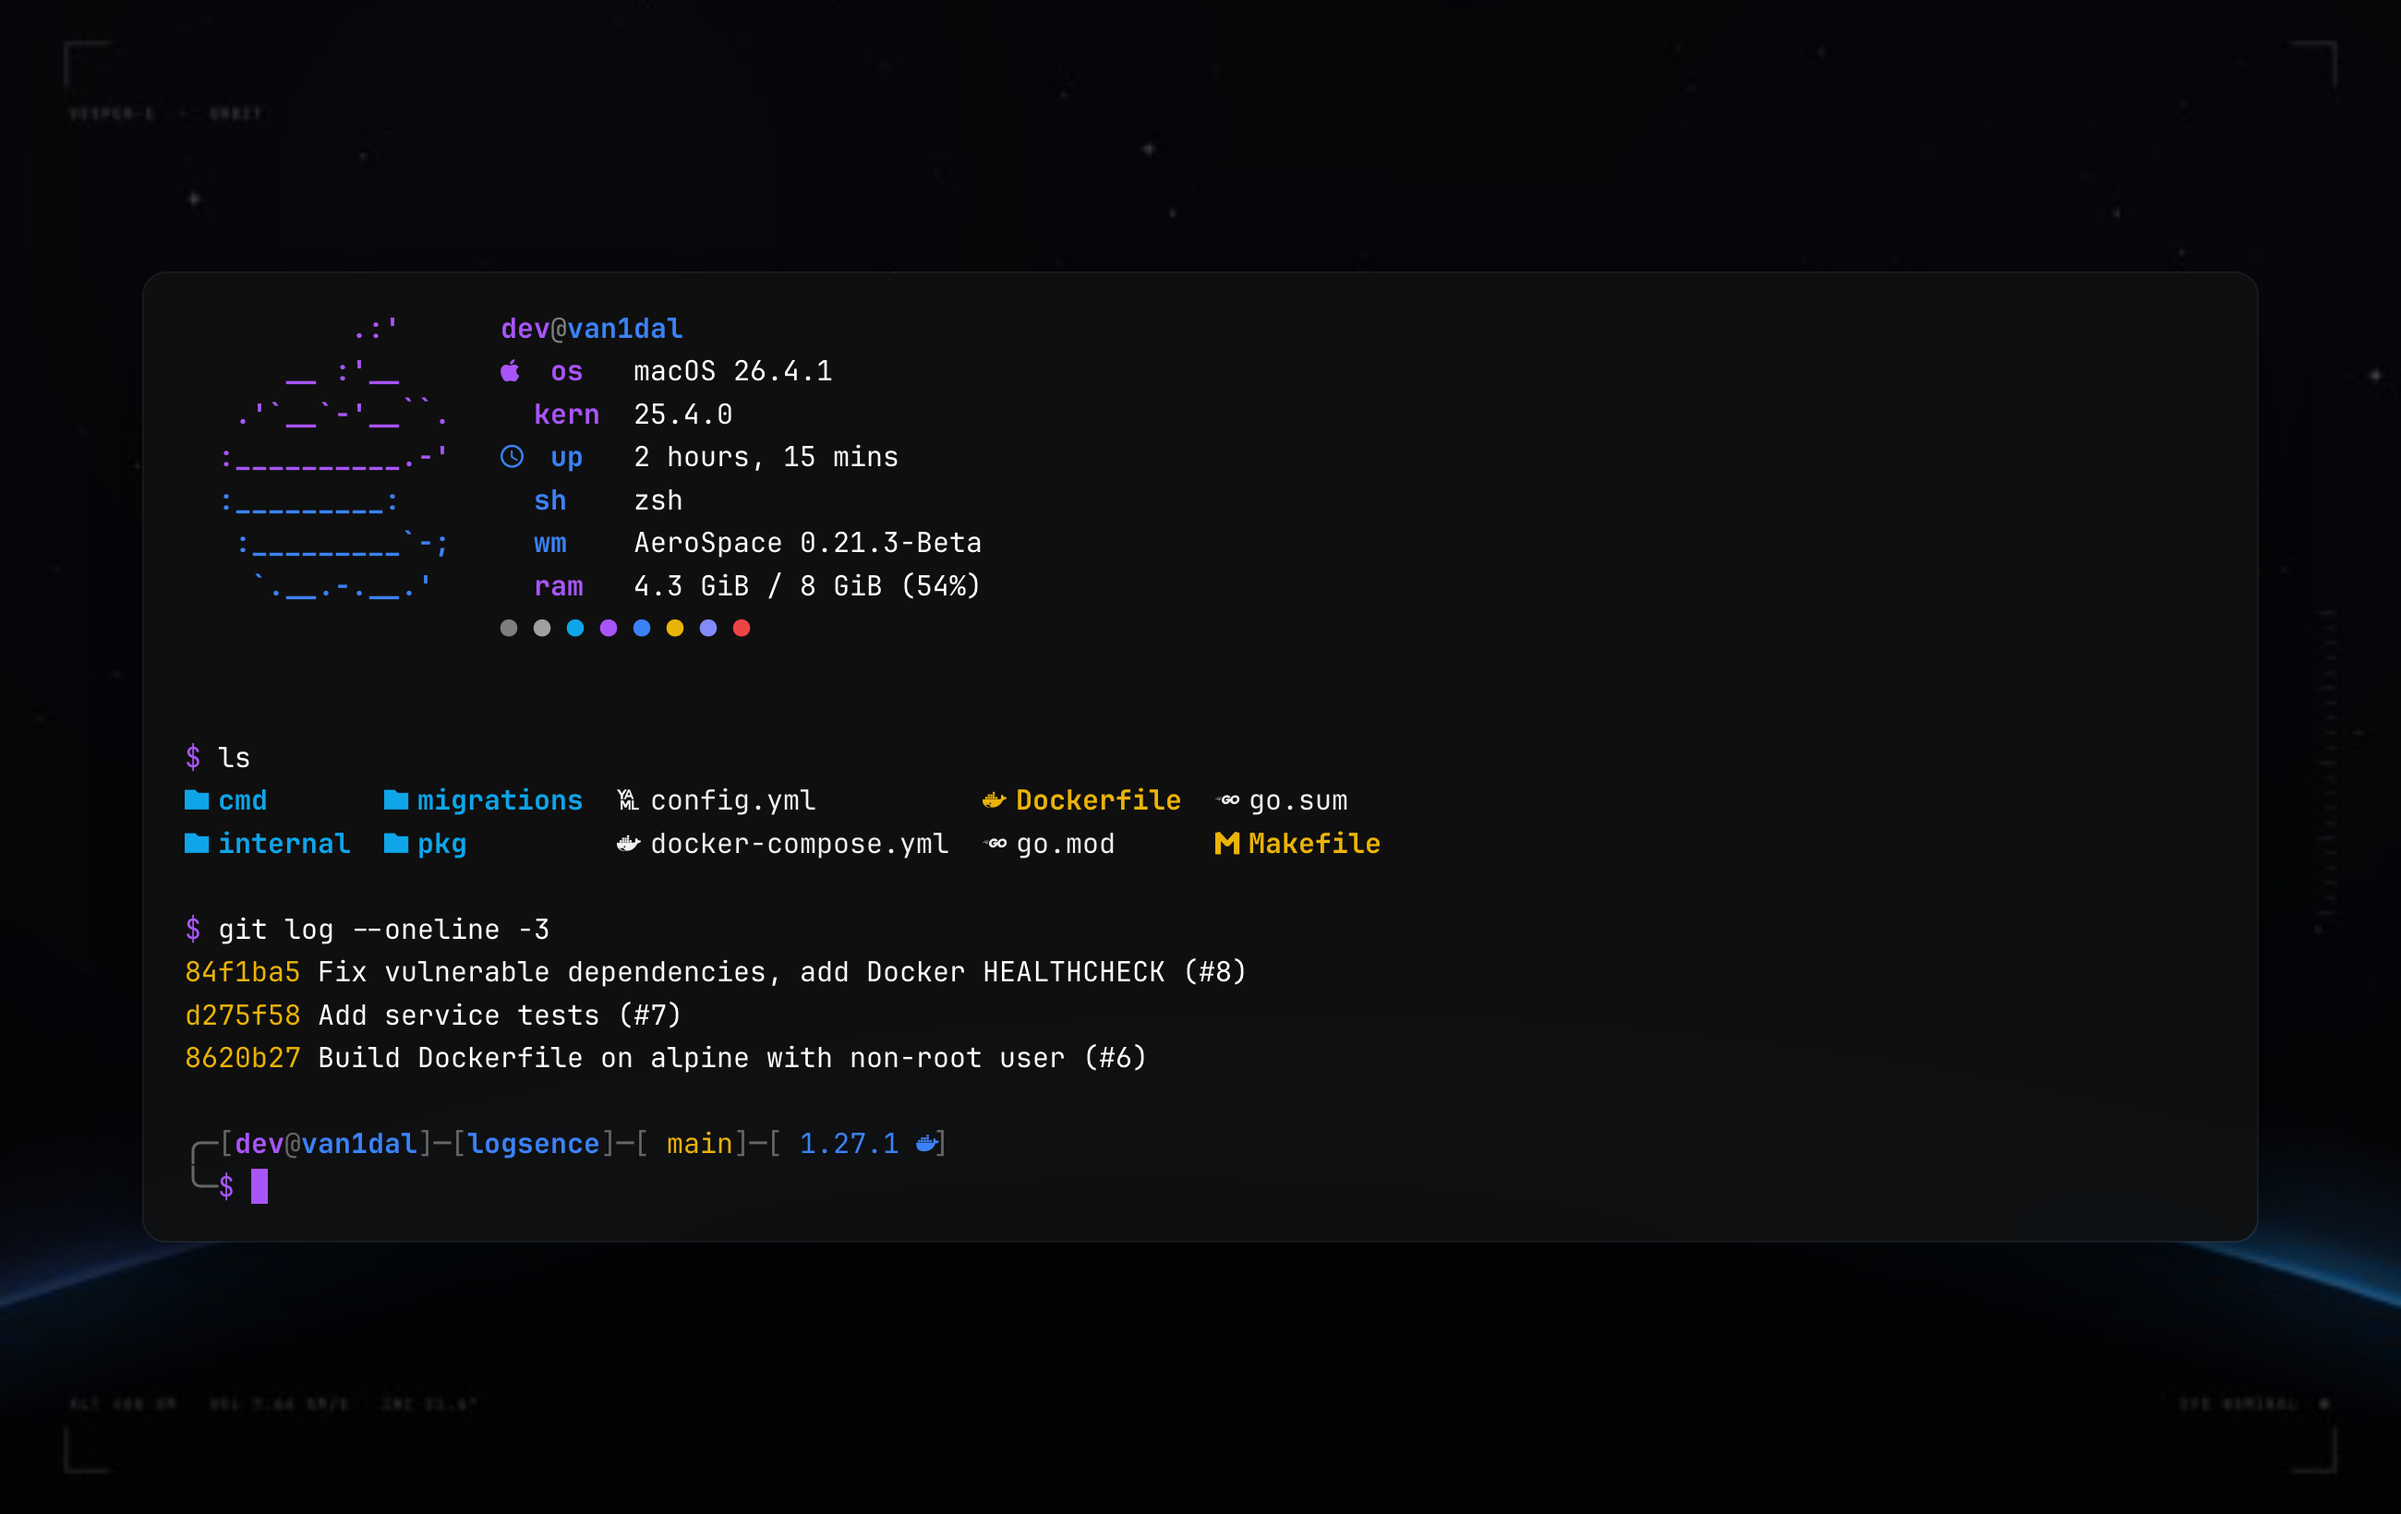
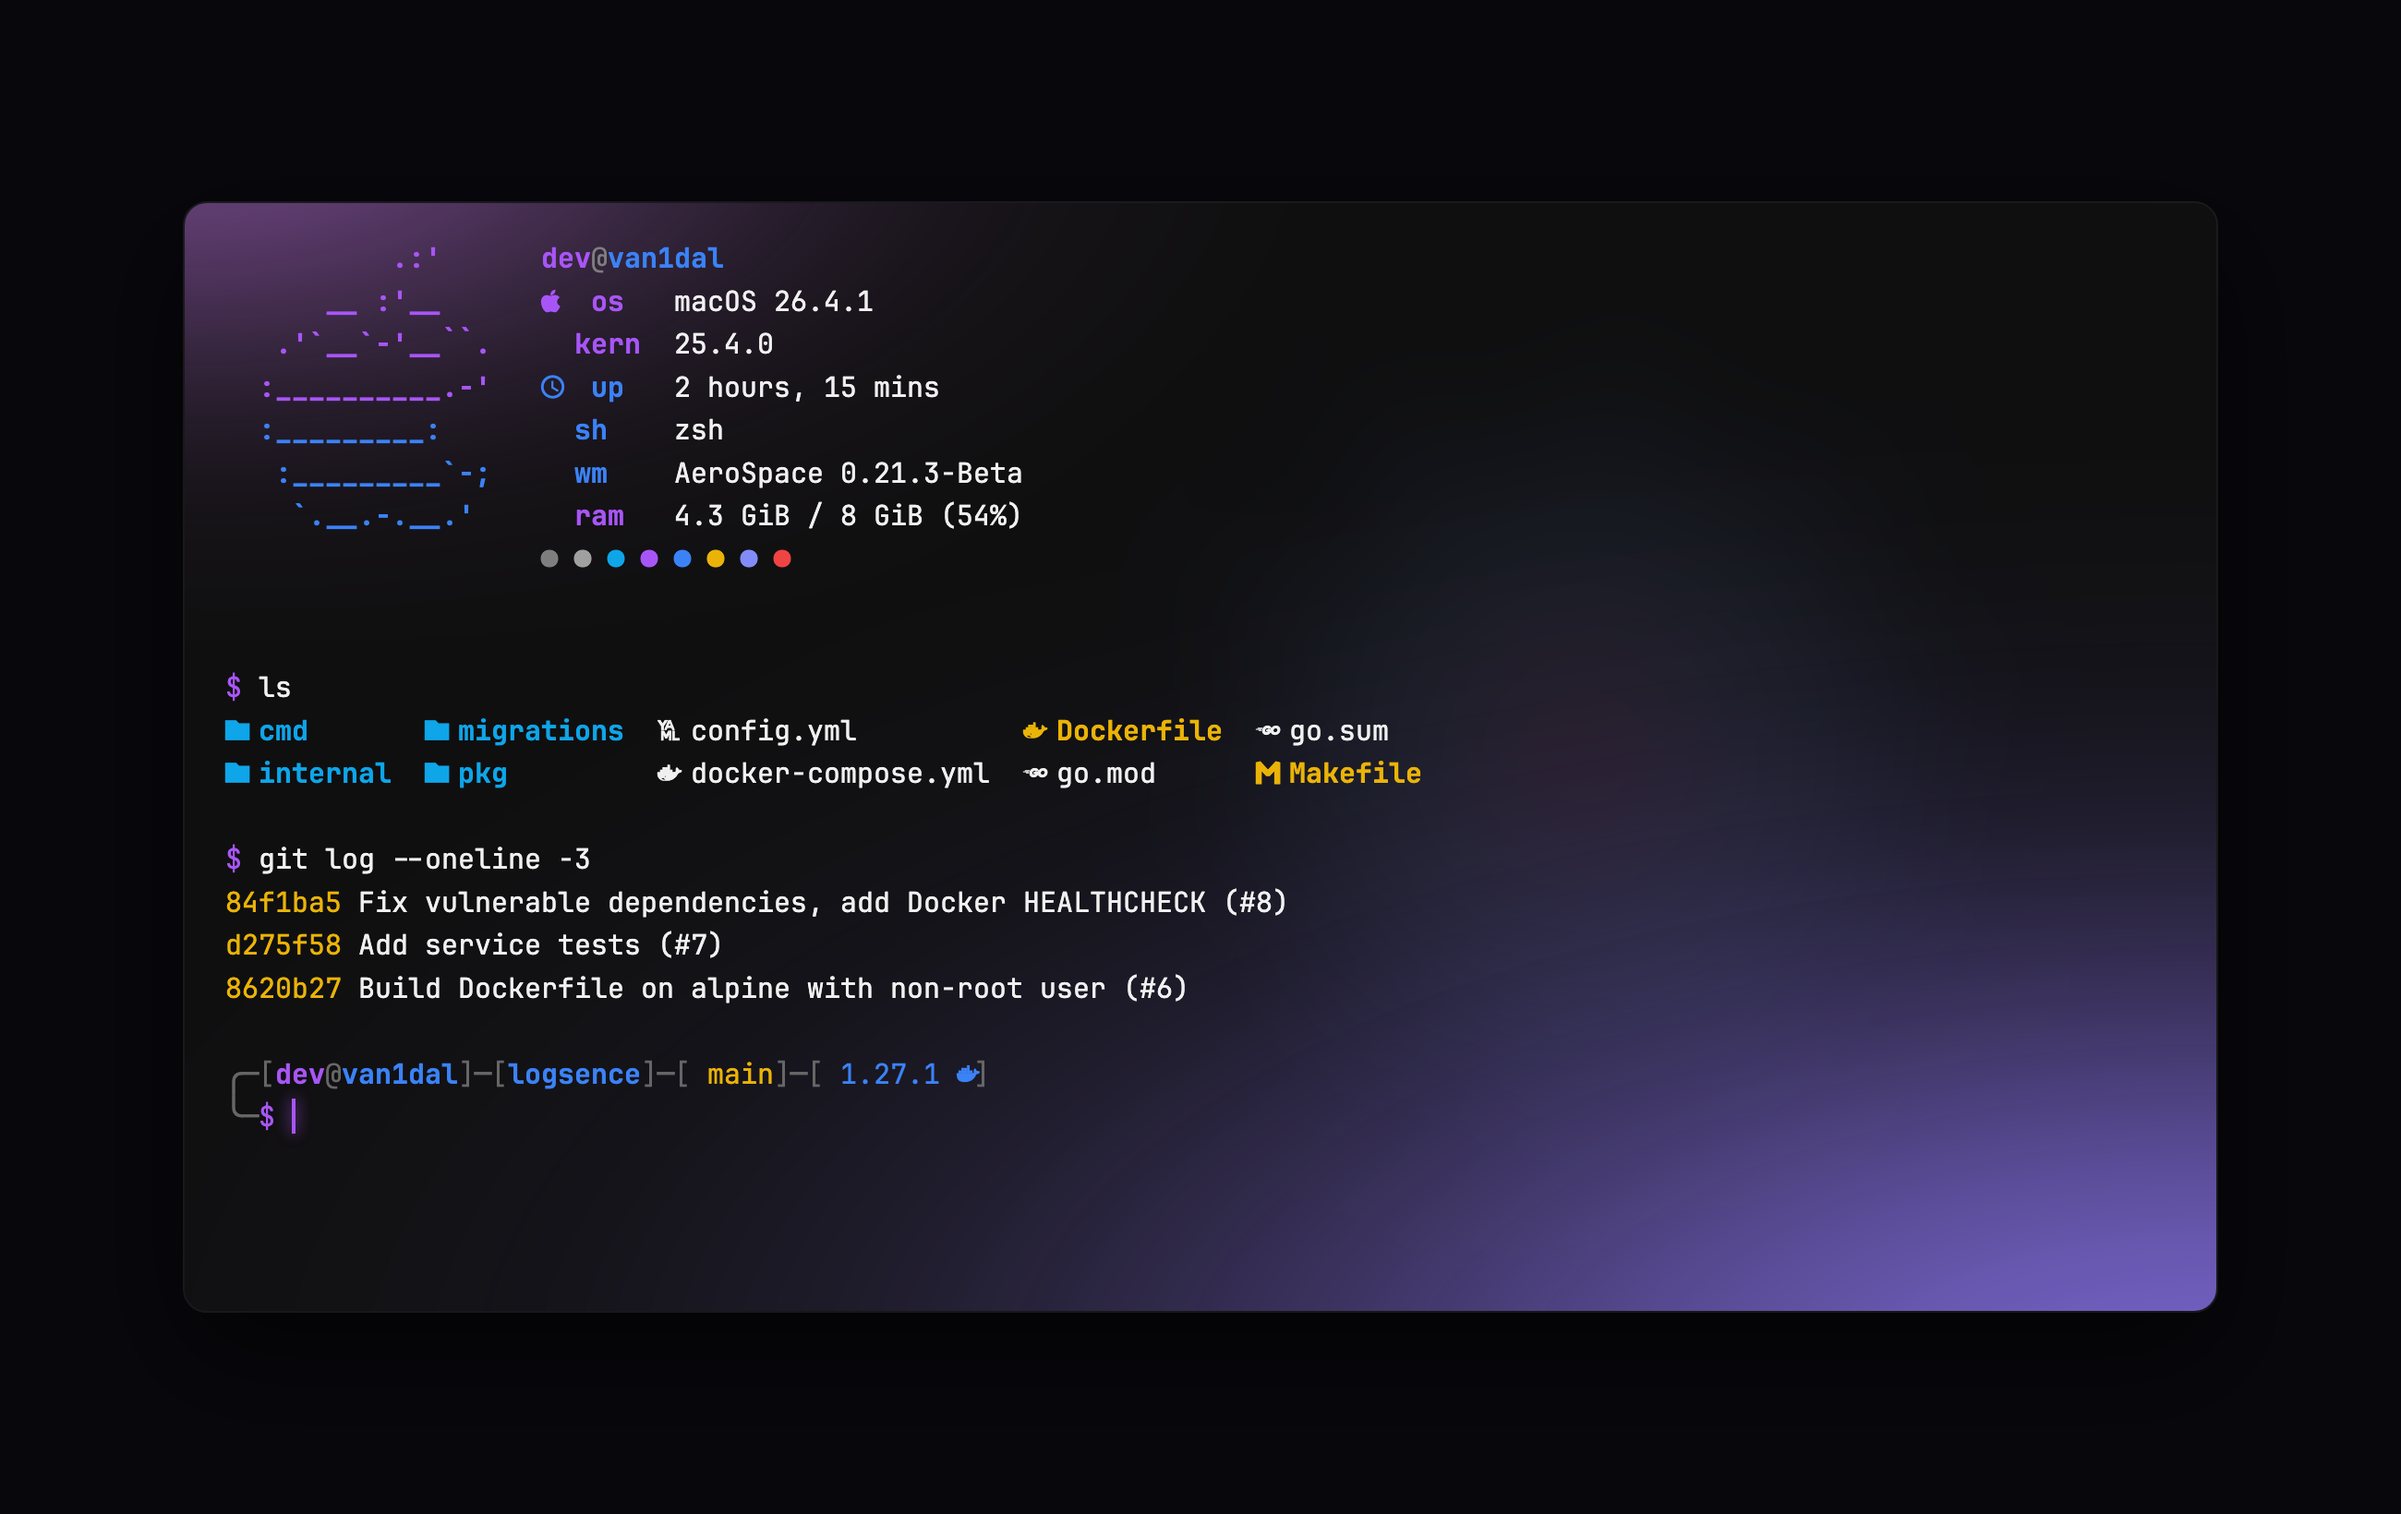
v1.2.0: changelog, new README screenshot
Claude-Session: https://claude.ai/code/session_01A6vcWtPRURuRKDpNb9h79B

diff --git a/CHANGELOG.md b/CHANGELOG.md
@@ -1,6 +1,6 @@
 # Changelog
 
-## Unreleased
+## v1.2.0 — 2026-10-06
 
 **Reproducibility**
 - `go` is now in the Brewfile (it was only installed as a dependency)
